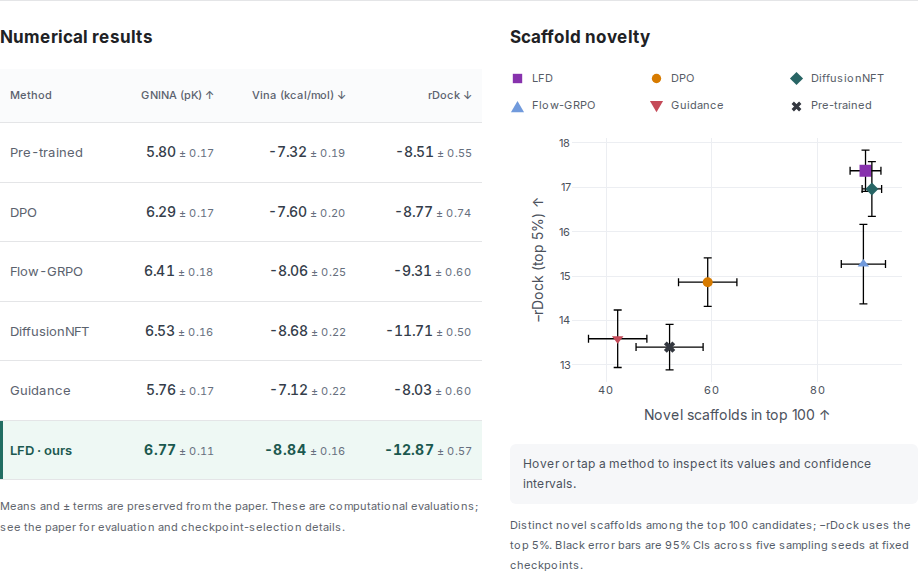
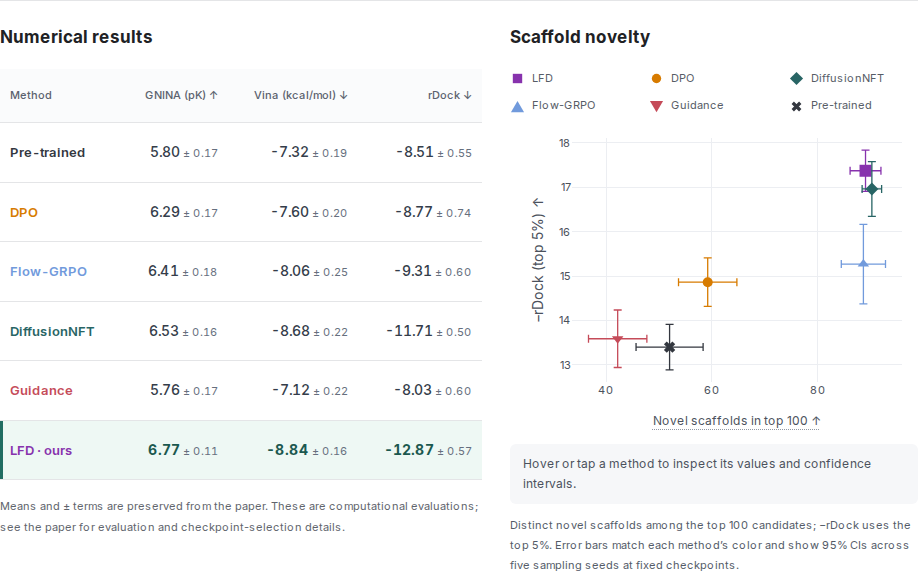
Match scaffold intervals and table labels to method colors; explain novelty

diff --git a/results.js b/results.js
@@ -77,10 +77,13 @@
       $('#comparison-readout').innerHTML = `<strong>${esc(row.method)}</strong> · ${result.metrics.map((m,i)=>`${esc(m.label)}: ${interval(...row.values[i])}`).join(' · ')}`;
     });
   }
+  function methodLabel(method) {
+    return `<span class="table-method" style="color:${style(method).color}">${esc(method === 'LFD' ? 'LFD · ours' : method)}</span>`;
+  }
   function renderTable(result) {
     const best = result.metrics.map((metric,i)=>(metric.direction === 'up' ? Math.max : Math.min)(...result.rows.map(row=>row.values[i][0])));
     $('#results-table-title').textContent = 'Numerical results';
-    $('#results-table').innerHTML = `<caption class="sr-only">${esc(result.name)}, paper Table ${result.table}. Higher is better for up arrows, lower for down arrows. Distance from prior is descriptive.</caption><thead><tr><th scope="col">Method</th>${result.metrics.map((m,i)=>`<th scope="col">${esc(m.label)} ${i === 2 && result.table === 1 ? '' : m.direction === 'up' ? '↑' : '↓'}</th>`).join('')}</tr></thead><tbody>${result.rows.map(row=>`<tr class="${row.method === 'LFD' ? 'ours' : ''}"><th scope="row">${esc(row.method === 'LFD' ? 'LFD · ours' : row.method)}</th>${row.values.map(([mean,error],i)=>`<td class="${!(i === 2 && result.table === 1) && mean === best[i] ? 'best' : ''}"><span class="table-mean">${mean.toFixed(2)}</span> <span class="table-uncertainty">± ${error.toFixed(2)}</span></td>`).join('')}</tr>`).join('')}</tbody>`;
+    $('#results-table').innerHTML = `<caption class="sr-only">${esc(result.name)}, paper Table ${result.table}. Higher is better for up arrows, lower for down arrows. Distance from prior is descriptive.</caption><thead><tr><th scope="col">Method</th>${result.metrics.map((m,i)=>`<th scope="col">${esc(m.label)} ${i === 2 && result.table === 1 ? '' : m.direction === 'up' ? '↑' : '↓'}</th>`).join('')}</tr></thead><tbody>${result.rows.map(row=>`<tr class="${row.method === 'LFD' ? 'ours' : ''}"><th scope="row">${methodLabel(row.method)}</th>${row.values.map(([mean,error],i)=>`<td class="${!(i === 2 && result.table === 1) && mean === best[i] ? 'best' : ''}"><span class="table-mean">${mean.toFixed(2)}</span> <span class="table-uncertainty">± ${error.toFixed(2)}</span></td>`).join('')}</tr>`).join('')}</tbody>`;
     $('#results-table-note').textContent = 'Means and ± terms are preserved from the paper. These are computational evaluations; see the paper for evaluation and checkpoint-selection details.';
   }
   const dockingMetrics = [
@@ -94,7 +97,7 @@
   }
   function noveltyMarkup() {
     const rows=window.LFD_DATA.charts.novelty;
-    return `<figure class="scaffold-novelty"><h4>Scaffold novelty</h4>${legend(rows.map(row=>row.method))}<div id="novelty-chart" class="interactive-chart" role="region" aria-label="Interactive GSK3 beta scaffold novelty and docking quality comparison"></div><p id="novelty-readout" class="chart-readout" role="status" aria-live="polite">Hover or tap a method to inspect its values and confidence intervals.</p><figcaption>Distinct novel scaffolds among the top 100 candidates; −rDock uses the top 5%. Black error bars are 95% CIs across five sampling seeds at fixed checkpoints.</figcaption><div class="sr-only"><table><caption>GSK3 beta scaffold novelty and docking quality, means with 95% confidence intervals</caption><thead><tr><th scope="col">Method</th><th scope="col">Novel scaffolds</th><th scope="col">Negative rDock, top 5%</th></tr></thead><tbody>${rows.map(row=>`<tr><th scope="row">${esc(row.method)}</th><td>${interval(row.noveltyMean,row.noveltyCI95)}</td><td>${interval(row.negativeRDockMean,row.negativeRDockCI95,3)}</td></tr>`).join('')}</tbody></table></div></figure>`;
+    return `<figure class="scaffold-novelty"><h4>Scaffold novelty</h4>${legend(rows.map(row=>row.method))}<div class="novelty-chart-frame"><div id="novelty-chart" class="interactive-chart" role="region" aria-label="Interactive GSK3 beta scaffold novelty and docking quality comparison"></div><div class="novelty-axis-help"><button id="novelty-axis-label" class="metric-help-label" type="button" aria-expanded="false" aria-controls="novelty-metric-help" aria-describedby="novelty-metric-help">Novel scaffolds in top 100 ↑</button><div id="novelty-metric-help" class="metric-tooltip" role="tooltip" hidden><strong>What is scaffold novelty?</strong><p>A scaffold is a molecule’s core rings and connecting linkers after side-chain removal (Bemis–Murcko).</p><p>We count <b>distinct scaffolds absent from the consistency-filtered training reference</b>; duplicates count only once. Atom and bond types are retained; stereochemistry is ignored.</p><p>Higher values mean more previously unseen molecular cores.</p><span class="metric-tooltip-source">Appendix D.2 · Evaluation protocol</span></div></div></div><p id="novelty-readout" class="chart-readout" role="status" aria-live="polite">Hover or tap a method to inspect its values and confidence intervals.</p><figcaption>Distinct novel scaffolds among the top 100 candidates; −rDock uses the top 5%. Error bars match each method’s color and show 95% CIs across five sampling seeds at fixed checkpoints.</figcaption><div class="sr-only"><table><caption>GSK3 beta scaffold novelty and docking quality, means with 95% confidence intervals</caption><thead><tr><th scope="col">Method</th><th scope="col">Novel scaffolds</th><th scope="col">Negative rDock, top 5%</th></tr></thead><tbody>${rows.map(row=>`<tr><th scope="row">${esc(row.method)}</th><td>${interval(row.noveltyMean,row.noveltyCI95)}</td><td>${interval(row.negativeRDockMean,row.negativeRDockCI95,3)}</td></tr>`).join('')}</tbody></table></div></figure>`;
   }
   function molecularExample(task) {
     if (task.id !== 'd2' && task.id !== 'gsk3b') return '';
@@ -137,8 +140,56 @@
   function renderOODTable() {
     const evidence = window.LFD_DATA.resultPanels.oodEvidence;
     $('#results-table-title').textContent = 'Reported discovery evidence';
-    $('#results-table').innerHTML = `<caption class="sr-only">Constrained molecular design, paper Figure 9. Sampling budgets differ.</caption><thead><tr><th scope="col">Generator</th><th scope="col">Full-goal outcome</th><th scope="col">Samples</th><th scope="col">Round</th></tr></thead><tbody><tr><th scope="row">Pre-trained</th><td>0 full-goal hits</td><td>${evidence.pretrained.attempts.toLocaleString('en-US')}</td><td>—</td></tr><tr class="ours"><th scope="row">LFD · ours</th><td>${esc(evidence.lfd.outcome)}</td><td>${evidence.lfd.batchSize}-sample batch</td><td>${evidence.lfd.round}</td></tr></tbody>`;
+    $('#results-table').innerHTML = `<caption class="sr-only">Constrained molecular design, paper Figure 9. Sampling budgets differ.</caption><thead><tr><th scope="col">Generator</th><th scope="col">Full-goal outcome</th><th scope="col">Samples</th><th scope="col">Round</th></tr></thead><tbody><tr><th scope="row">${methodLabel('Pre-trained')}</th><td>0 full-goal hits</td><td>${evidence.pretrained.attempts.toLocaleString('en-US')}</td><td>—</td></tr><tr class="ours"><th scope="row">${methodLabel('LFD')}</th><td>${esc(evidence.lfd.outcome)}</td><td>${evidence.lfd.batchSize}-sample batch</td><td>${evidence.lfd.round}</td></tr></tbody>`;
     $('#results-table-note').textContent = evidence.caveat;
+  }
+  function setupNoveltyHelp() {
+    const container = $('#task-scaffold-novelty');
+    let pinned = false, closeTimer;
+    function open() {
+      clearTimeout(closeTimer);
+      const label = $('#novelty-axis-label'), tooltip = $('#novelty-metric-help');
+      if (!label || !tooltip) return;
+      tooltip.hidden = false;
+      label.setAttribute('aria-expanded','true');
+    }
+    function close() {
+      clearTimeout(closeTimer);
+      pinned = false;
+      const label = $('#novelty-axis-label'), tooltip = $('#novelty-metric-help');
+      if (tooltip) tooltip.hidden = true;
+      if (label) label.setAttribute('aria-expanded','false');
+    }
+    function scheduleClose() {
+      clearTimeout(closeTimer);
+      closeTimer = setTimeout(() => {
+        const help = container.querySelector('.novelty-axis-help');
+        if (!pinned && help && !help.matches(':hover') && !help.contains(document.activeElement)) close();
+      },180);
+    }
+    container.addEventListener('pointerover',event => {
+      if (event.pointerType === 'mouse' && event.target.closest('.novelty-axis-help')) open();
+    });
+    container.addEventListener('pointerout',event => {
+      const help = event.target.closest('.novelty-axis-help');
+      if (help && !help.contains(event.relatedTarget)) scheduleClose();
+    });
+    container.addEventListener('focusin',event => {
+      if (event.target.id === 'novelty-axis-label') open();
+    });
+    container.addEventListener('focusout',scheduleClose);
+    container.addEventListener('click',event => {
+      if (!event.target.closest('#novelty-axis-label')) return;
+      if (pinned) close();
+      else {pinned = true; open();}
+    });
+    document.addEventListener('keydown',event => {
+      if (event.key === 'Escape') close();
+    });
+    document.addEventListener('pointerdown',event => {
+      if (!event.target.closest('.novelty-axis-help')) close();
+    });
+    return close;
   }
   function init(results) {
     const data=window.LFD_DATA;
@@ -147,8 +198,10 @@
     const panel=$('#task-results-panel');
     let active=goals[0].id;
     let generation=0;
+    const closeNoveltyHelp=setupNoveltyHelp();
     cards.innerHTML=goals.map((goal,index)=>`<button id="result-card-${esc(goal.id)}" class="result-card" role="tab" aria-selected="${index===0}" aria-controls="task-results-panel" aria-labelledby="result-number-${esc(goal.id)} result-name-${esc(goal.id)}" aria-describedby="result-goal-${esc(goal.id)}" tabindex="${index===0 ? 0 : -1}" data-result-task="${esc(goal.id)}" data-generator="${esc(goal.generator)}"><span class="goal-card-heading"><span id="result-number-${esc(goal.id)}" class="goal-number">Goal ${goal.number}</span><span class="goal-card-state" aria-hidden="true">${index===0 ? 'Selected' : '↗'}</span></span><span class="card-generator">${esc(goal.generator)} · ${esc(goal.domain.toLowerCase())}</span><strong id="result-name-${esc(goal.id)}" class="result-task-name">${esc(goal.name)}</strong><span id="result-goal-${esc(goal.id)}" class="result-goal">${esc(goal.goal)}</span></button>`).join('');
     function render(id) {
+      closeNoveltyHelp();
       active=id;
       const current=++generation;
       const goal=goals.find(task=>task.id===id);
@@ -270,13 +323,13 @@
     const traces=rows.map(row=>({
       type:'scatter',mode:'markers',name:row.method,x:[row.noveltyMean],y:[row.negativeRDockMean],
       marker:{color:style(row.method).color,symbol:style(row.method).symbol,size:row.method==='LFD' ? 12 : 10},
-      error_x:{type:'data',array:[row.noveltyCI95],visible:true,color:'#000000',thickness:1.3,width:4},
-      error_y:{type:'data',array:[row.negativeRDockCI95],visible:true,color:'#000000',thickness:1.3,width:4},
+      error_x:{type:'data',array:[row.noveltyCI95],visible:true,color:style(row.method).color,thickness:1.3,width:4},
+      error_y:{type:'data',array:[row.negativeRDockCI95],visible:true,color:style(row.method).color,thickness:1.3,width:4},
       hovertemplate:`<b>${esc(row.method)}</b><br>Novel scaffolds: ${interval(row.noveltyMean,row.noveltyCI95)}<br>−rDock (top 5%): ${interval(row.negativeRDockMean,row.negativeRDockCI95,3)}<br>95% CIs · ${row.samplingSeeds} sampling seeds<extra></extra>`
     }));
     return draw('#novelty-chart',traces,layout({
       margin:{l:62,r:16,t:14,b:62},
-      xaxis:{fixedrange:true,title:{text:'Novel scaffolds in top 100 ↑',standoff:14},tickfont:{size:11},gridcolor:'#eceef2',zeroline:false,automargin:true},
+      xaxis:{fixedrange:true,title:{text:''},tickfont:{size:11},gridcolor:'#eceef2',zeroline:false,automargin:true},
       yaxis:{fixedrange:true,title:{text:'−rDock (top 5%) ↑',standoff:12},tickfont:{size:11},gridcolor:'#eceef2',zeroline:false,automargin:true}
     }),point=>{
       const row=rows[point.curveNumber];

diff --git a/site.css b/site.css
@@ -451,6 +451,16 @@ footer { padding-block: 26px; border-top: 1px solid var(--line); display: flex; 
 .scaffold-novelty .plot-key { display: grid; grid-template-columns: repeat(3,minmax(0,1fr)); gap: 8px 10px; margin-bottom: 8px; font-size: 11px; }
 .scaffold-novelty .plot-key span { white-space: nowrap; }
 .scaffold-novelty .interactive-chart { height: 320px; }
+.novelty-chart-frame { position: relative; }
+.novelty-axis-help { position: absolute; bottom: 6px; left: 0; right: 0; padding-left: 62px; padding-right: 16px; text-align: center; }
+.metric-help-label { min-height: 34px; padding: 4px 0; border: 0; background: transparent; color: #4b515c; font: 12px/1.5 var(--sans); text-decoration: underline dotted #9299a4; text-underline-offset: 4px; cursor: help; }
+.metric-help-label:hover { color: var(--ink); }
+.metric-help-label:focus-visible { outline: 2px solid #426ba4; outline-offset: 3px; border-radius: 3px; }
+.metric-tooltip { position: absolute; z-index: 5; bottom: calc(100% + 8px); left: 50%; transform: translateX(-50%); width: min(350px, calc(100% - 12px)); max-height: min(360px, calc(100vh - 32px)); overflow: auto; padding: 17px 18px; border: 1px solid #d8dce3; border-radius: 12px; background: #fff; box-shadow: 0 8px 28px #20212424; color: var(--ink); text-align: left; font-size: 12px; line-height: 1.65; }
+.metric-tooltip[hidden] { display: none; }
+.metric-tooltip > strong { display: block; font-size: 14px; margin-bottom: 9px; }
+.metric-tooltip p { margin: 0 0 9px; }
+.metric-tooltip-source { color: #626975; font-size: 11px; }
 .scaffold-novelty .chart-readout { margin-bottom: 12px; }
 .scaffold-novelty figcaption { font-size: 11px; line-height: 1.8; color: #535b67; }
 @media (max-width: 1199px) {
@@ -532,6 +542,7 @@ footer { padding-block: 26px; border-top: 1px solid var(--line); display: flex; 
 .results-values h4 { font-size: 17px; }
 #results-table th, #results-table td { padding-block: 17px; }
 #results-table thead th { font-size: 11px; background: #fafbfc; }
+#results-table .table-method { font-weight: 600; }
 #results-table .table-mean { font-weight: 500; font-size: 15px; color: #343d4a; }
 #results-table .table-uncertainty { color: #666f7e; font-size: 12px; font-weight: 400; }
 #results-table tr.ours { background: var(--goal-surface); }

diff --git a/index.html b/index.html
@@ -15,11 +15,11 @@
   <link rel="icon" type="image/svg+xml" href="assets/favicon.svg">
   <link rel="preload" href="assets/fonts/inter-latin.woff2" as="font" type="font/woff2" crossorigin>
   <link rel="stylesheet" href="assets/katex/katex.min.css?v=f76ac5391ddb">
-  <link rel="stylesheet" href="site.css?v=3e8fc350068a">
+  <link rel="stylesheet" href="site.css?v=d6a4143a0537">
   <script src="assets/katex/katex.min.js?v=608ba6519084" defer></script>
   <script src="data/site-data.js?v=9095451bfe3e" defer></script>
   <script src="assets/plotly/plotly-basic.min.js?v=99784e3abfb0" defer></script>
-  <script src="results.js?v=4c34a4ac6688" defer></script>
+  <script src="results.js?v=74a55d342def" defer></script>
   <script src="site.js?v=c599bbafecdf" defer></script>
 </head>
 <body>

diff --git a/scripts/check_results.py b/scripts/check_results.py
@@ -22,6 +22,8 @@ def main():
     widths = [360, 390, 768, 901, 1024, 1280, 1440, 1920, 2227, 2560]
     errors, failures = [], []
     expected_colors={'LFD':'#8732ad','Pre-trained':'#33373f','DPO':'#d77b00','DiffusionNFT':'#286565','Flow-GRPO':'#719adc','Guidance':'#c54b59'}
+    def rgb(hex_color):
+        return 'rgb('+', '.join(str(int(hex_color[i:i+2],16)) for i in (1,3,5))+')'
     expected_symbols={'LFD':'square','Pre-trained':'x','DPO':'circle','DiffusionNFT':'diamond','Flow-GRPO':'triangle-up','Guidance':'triangle-down'}
     with sync_playwright() as p:
         browser = p.chromium.launch(args=['--no-sandbox'])
@@ -98,6 +100,8 @@ def main():
             assert page.locator('.metric-summary,.metric-tile,.goal-preview').count() == 0
             assert page.locator('#result-discovery').inner_html() == ''
             for index,row in enumerate(result['rows']):
+                name=page.locator('#results-table tbody tr').nth(index).locator('.table-method')
+                assert name.evaluate('(el)=>getComputedStyle(el).color')==rgb(expected_colors[row['method']])
                 values=page.locator('#results-table tbody tr').nth(index).locator('td').all_text_contents()
                 assert values == [f'{mean:.2f} ± {error:.2f}' for mean,error in row['values']], (result['id'],index,values)
             if result['table']==2:
@@ -110,14 +114,25 @@ def main():
                     expect(page.locator('#novelty-chart')).to_be_visible()
                     assert page.locator('#task-results-panel .js-plotly-plot').count()==2
                     novelty=page.locator('#novelty-chart').evaluate('(plot)=>plot.data.map(t=>({method:t.name,x:t.x[0],y:t.y[0],dx:t.error_x.array[0],dy:t.error_y.array[0],symbol:t.marker.symbol,color:t.marker.color,xColor:t.error_x.color,yColor:t.error_y.color}))')
-                    assert novelty==[{'method':r['method'],'x':r['noveltyMean'],'y':r['negativeRDockMean'],'dx':r['noveltyCI95'],'dy':r['negativeRDockCI95'],'symbol':expected_symbols[r['method']],'color':expected_colors[r['method']],'xColor':'#000000','yColor':'#000000'} for r in charts['novelty']]
-                    strokes=page.locator('#novelty-chart .errorbar path').evaluate_all('(els)=>els.map(el=>getComputedStyle(el).stroke)')
-                    assert len(strokes)==12 and all(color=='rgb(0, 0, 0)' for color in strokes)
+                    assert novelty==[{'method':r['method'],'x':r['noveltyMean'],'y':r['negativeRDockMean'],'dx':r['noveltyCI95'],'dy':r['negativeRDockCI95'],'symbol':expected_symbols[r['method']],'color':expected_colors[r['method']],'xColor':expected_colors[r['method']],'yColor':expected_colors[r['method']]} for r in charts['novelty']]
+                    strokes=page.locator('#novelty-chart .scatterlayer .trace').evaluate_all('(els)=>els.map(el=>[...el.querySelectorAll(".errorbar path")].map(path=>getComputedStyle(path).stroke))')
+                    assert strokes==[[rgb(expected_colors[r['method']])]*2 for r in charts['novelty']]
                     page.locator('#novelty-chart .scatterlayer .trace').nth(1).locator('.point').hover(force=True)
                     expect(page.locator('#novelty-readout')).to_contain_text('LFD')
                     expect(page.locator('#novelty-readout')).to_contain_text('89.00')
                     expect(page.locator('#novelty-readout')).to_contain_text('17.373')
                     expect(page.locator('#novelty-chart .hoverlayer')).to_contain_text('95% CIs')
+                    label=page.locator('#novelty-axis-label');tip=page.locator('#novelty-metric-help')
+                    label.hover();expect(tip).to_be_visible()
+                    expect(tip).to_contain_text('Bemis–Murcko')
+                    expect(tip).to_contain_text('consistency-filtered training reference')
+                    expect(tip).to_contain_text('count only once')
+                    tip.hover();expect(tip).to_be_visible()
+                    page.mouse.move(1,1);expect(tip).to_be_hidden()
+                    label.focus();expect(tip).to_be_visible()
+                    page.keyboard.press('Escape');expect(tip).to_be_hidden()
+                    page.keyboard.press('Enter');expect(tip).to_be_visible()
+                    page.locator('#results-table-title').click();expect(tip).to_be_hidden()
                 else:
                     assert page.locator('#novelty-chart').count()==0
                 bars=page.locator('#docking-chart').evaluate('(plot)=>plot.data.map(t=>({type:t.type,method:t.name,x:t.x,y:t.y,error:t.error_y.array,color:t.marker.color,errorColor:t.error_y.color,original:t.customdata.map(v=>v[0]),baseline:t.customdata.map(v=>v[4])}))')
@@ -246,6 +261,11 @@ def main():
                     touch.locator('#novelty-chart .scatterlayer .trace').nth(1).locator('.point').tap(force=True)
                     expect(touch.locator('#novelty-readout')).to_contain_text('89.00')
                     expect(touch.locator('#novelty-readout')).to_contain_text('17.373')
+                    label=touch.locator('#novelty-axis-label');tip=touch.locator('#novelty-metric-help')
+                    label.tap();expect(tip).to_be_visible()
+                    bounds=tip.bounding_box()
+                    assert bounds['x']>=0 and bounds['x']+bounds['width']<=390
+                    label.tap();expect(tip).to_be_hidden()
             else:
                 assert touch.locator('#task-results-plots .js-plotly-plot').count()==0
                 expect(touch.locator('#task-results-plots')).to_be_hidden()
@@ -258,7 +278,7 @@ def main():
         assert not errors,errors
         assert not failures,failures
         browser.close()
-    report={'status':'passed','viewports':widths,'goals':5,'table_metric_pairs':66,'paired_activity_toxicity':'passed','docking_grouped_bars':'passed','docking_absolute_values':'passed','docking_baseline_deltas':'passed','docking_negative_improvements':'passed','docking_zero_reference':'passed','docking_black_error_bars':'passed','docking_signed_hover':'passed','molecule_context_layout':'passed','scaffold_novelty_values':'passed','scaffold_novelty_black_cis':'passed','scaffold_novelty_hover_touch':'passed','scaffold_novelty_table_layout':'passed','plot_data_disclosure':'removed','task_plot_isolation':'passed','marker_legends':'passed','paper_goals':'passed','fifth_task_evidence':'passed','goal5_curriculum_plot':'removed','goal5_figure':'passed','generator_colors':'passed','observable_lists':'passed','curriculum_stages':23,'curriculum_keyboard_touch':'passed','curriculum_trace_links':'passed','score_footers_and_metric_tiles':'removed','single_results_panel':'passed','selected_task_highlight':'passed','inline_paper_links':'removed','verbatim_curriculum_goals':23,'rapid_switching':'passed','keyboard':'passed','hover_touch':'passed','local_file':'passed','browser_errors':errors,'failed_requests':failures}
+    report={'status':'passed','viewports':widths,'goals':5,'table_metric_pairs':66,'paired_activity_toxicity':'passed','docking_grouped_bars':'passed','docking_absolute_values':'passed','docking_baseline_deltas':'passed','docking_negative_improvements':'passed','docking_zero_reference':'passed','docking_black_error_bars':'passed','docking_signed_hover':'passed','molecule_context_layout':'passed','scaffold_novelty_values':'passed','scaffold_novelty_marker_colored_cis':'passed','table_method_colors':'passed','scaffold_axis_definition_hover_focus_touch':'passed','scaffold_novelty_hover_touch':'passed','scaffold_novelty_table_layout':'passed','plot_data_disclosure':'removed','task_plot_isolation':'passed','marker_legends':'passed','paper_goals':'passed','fifth_task_evidence':'passed','goal5_curriculum_plot':'removed','goal5_figure':'passed','generator_colors':'passed','observable_lists':'passed','curriculum_stages':23,'curriculum_keyboard_touch':'passed','curriculum_trace_links':'passed','score_footers_and_metric_tiles':'removed','single_results_panel':'passed','selected_task_highlight':'passed','inline_paper_links':'removed','verbatim_curriculum_goals':23,'rapid_switching':'passed','keyboard':'passed','hover_touch':'passed','local_file':'passed','browser_errors':errors,'failed_requests':failures}
     (out/'report.json').write_text(json.dumps(report,indent=2)+'\n')
     print(json.dumps(report))
 

diff --git a/README.md b/README.md
@@ -2,7 +2,7 @@
 
 An interactive research website for **LLM-to-Flow Distillation: Teaching Natural Language Goals to Scientific Generators**.
 
-The site includes the authors’ main method figure and a scroll-aware contents menu, all five discovery tasks, 23 curriculum/assessment stages, 36 illustrative recorded judgments, searchable/filterable traces, shareable task/subgoal URLs, JSON downloads, the full paper, and every value from the paper’s two main result tables. Five clickable goal cards switch a single results panel between tasks. The cards reproduce the paper’s natural-language goals, with large goal labels and colors identifying PepDFM (peptides) and FlowMol3 (molecules). The goal cards contain the task wording without numerical footers. Each selected task has one large rounded results panel with a generator-colored heading, without metric tiles; its goal card has a bold border, stronger fill, and a checked Selected badge. The panel includes brief appendix-sourced task and proxy-baseline context, expandable teacher-observable lists, and interactive curriculum buttons showing verbatim operative goals and linking to each stage’s judge traces. Each peptide task has one activity–toxicity scatterplot. Both docking tasks use an interactive grouped bar chart with GNINA, |Vina|, and |rDock| on the x-axis, method-colored bars showing |method score| − |pretrained score|, with zero marking the pretrained baseline. Black error bars retain each method’s printed Table 2 ± term with the pretrained mean treated as a fixed reference. The original signed values appear in the table and hover details. Proxy and observable descriptions are stacked to the left of the visible molecular docking PNG. The GSK3β table sits beside an interactive scaffold-novelty versus top-5% docking-quality plot on desktop, stacking on smaller screens. Its recorded means and Student-t 95% CIs across five sampling seeds are preserved, with black interval whiskers. The old rounds plot and data disclosure remain removed; constrained design prominently shows zero full-goal hits in 38,500 pretrained samples beside the user-supplied `assets/hitGoal5.png`, alongside its selectable subgoal inspector and discovery-evidence table. Every plot uses marker legends and hover/tap values. It works without a JavaScript framework, runtime CDN, API key, or paid service.
+The site includes the authors’ main method figure and a scroll-aware contents menu, all five discovery tasks, 23 curriculum/assessment stages, 36 illustrative recorded judgments, searchable/filterable traces, shareable task/subgoal URLs, JSON downloads, the full paper, and every value from the paper’s two main result tables. Five clickable goal cards switch a single results panel between tasks. The cards reproduce the paper’s natural-language goals, with large goal labels and colors identifying PepDFM (peptides) and FlowMol3 (molecules). The goal cards contain the task wording without numerical footers. Each selected task has one large rounded results panel with a generator-colored heading, without metric tiles; its goal card has a bold border, stronger fill, and a checked Selected badge. The panel includes brief appendix-sourced task and proxy-baseline context, expandable teacher-observable lists, and interactive curriculum buttons showing verbatim operative goals and linking to each stage’s judge traces. Each peptide task has one activity–toxicity scatterplot. Both docking tasks use an interactive grouped bar chart with GNINA, |Vina|, and |rDock| on the x-axis, method-colored bars showing |method score| − |pretrained score|, with zero marking the pretrained baseline. Black error bars retain each method’s printed Table 2 ± term with the pretrained mean treated as a fixed reference. The original signed values appear in the table and hover details. Proxy and observable descriptions are stacked to the left of the visible molecular docking PNG. The GSK3β table sits beside an interactive scaffold-novelty versus top-5% docking-quality plot on desktop, stacking on smaller screens. Its recorded means and Student-t 95% CIs across five sampling seeds are preserved, with interval whiskers matching each method’s marker. Numerical-table method names use the same palette. Hover, focus, or tap the scaffold x-axis label for the Appendix D.2 metric definition. The old rounds plot and data disclosure remain removed; constrained design prominently shows zero full-goal hits in 38,500 pretrained samples beside the user-supplied `assets/hitGoal5.png`, alongside its selectable subgoal inspector and discovery-evidence table. Every plot uses marker legends and hover/tap values. It works without a JavaScript framework, runtime CDN, API key, or paid service.
 
 The page uses a white background, self-hosted Inter fonts, and a compact centered paper title/author block. The larger left contents rail sits beside the reading column on wide screens and tracks the current section; on smaller screens it becomes an expandable contents button. The Method section follows the authors’ introduction and algorithm: a sequence of goal regions followed by the sample, SetGoal, LLM-Judge, and Minimize operations. A section divider separates “Method: LLM-to-Flow Distillation” from the opening figure; its contents-menu label is “Method (LFD)”. Results appears before the interactive trace explorer in both the page and the contents menu. The mathematical introduction and eight-line numbered pseudocode sit side by side on desktop and stack on smaller screens. The algorithm is capped at 460px and 40% of the desktop content width, and uses paper-style serif type in a softly colored, rounded box, with no comment lines or equation references. Below it, the authors’ KL interpretation uses the full section width with left-aligned prose and centered display equations. The two equivalent implicit-target expressions are individually centered. Repeated “in the paper” result links are removed; the main arxiv button and evidence-source references remain available. The interpretation states the Bradley–Terry assumption and gives both the exponential-tilt target and its equivalent KL-regularized variational objective. Hover or focus the underlined operations to inspect their details, or click/tap to keep the panel open. Minimize includes the DPO loss and the surrogate-based update; Escape, the close control, and outside clicks dismiss the panel. The introduction uses Inter; the algorithm uses the self-hosted KaTeX serif family, with blue function controls and responsive type sizing. Equations use self-hosted KaTeX 0.18.10 with accessible MathML and readable text fallbacks. Font, icon, and renderer credits are in `assets/ATTRIBUTIONS.txt`.
 
